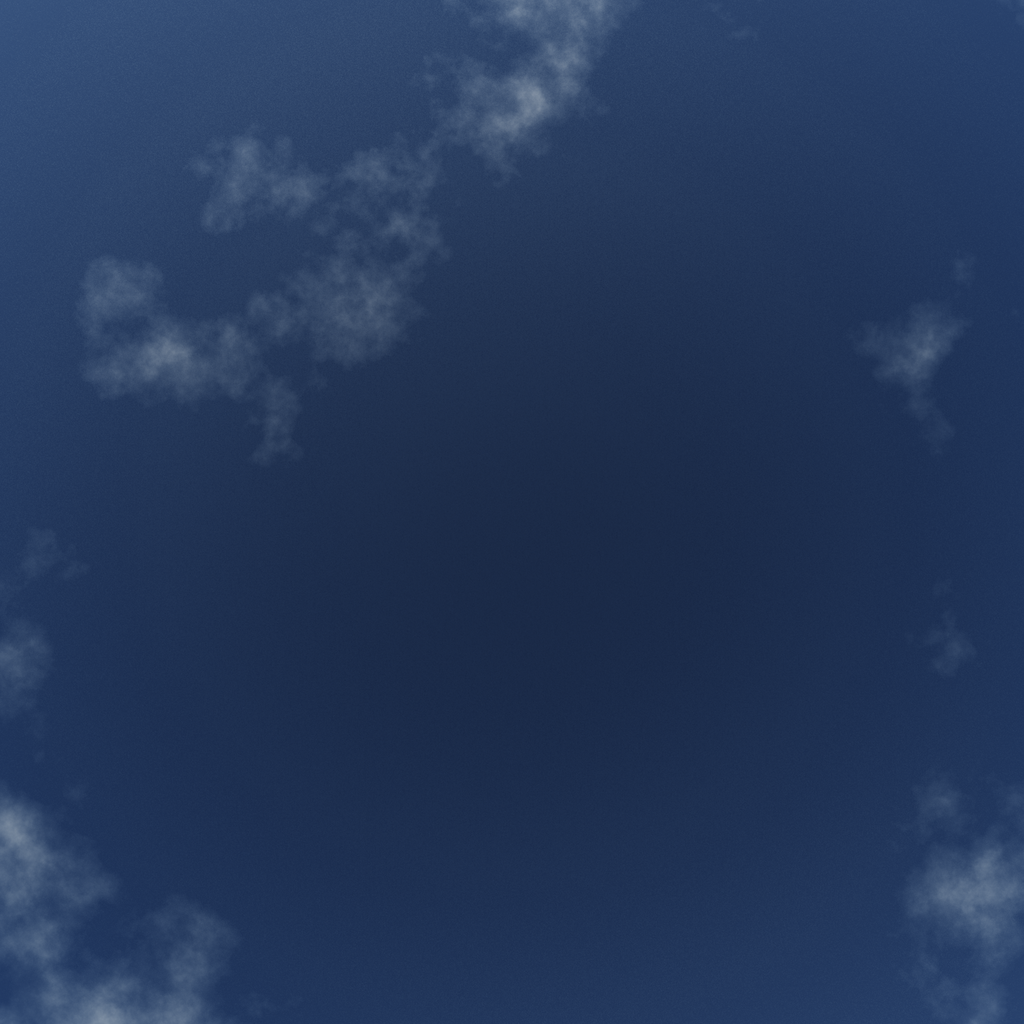
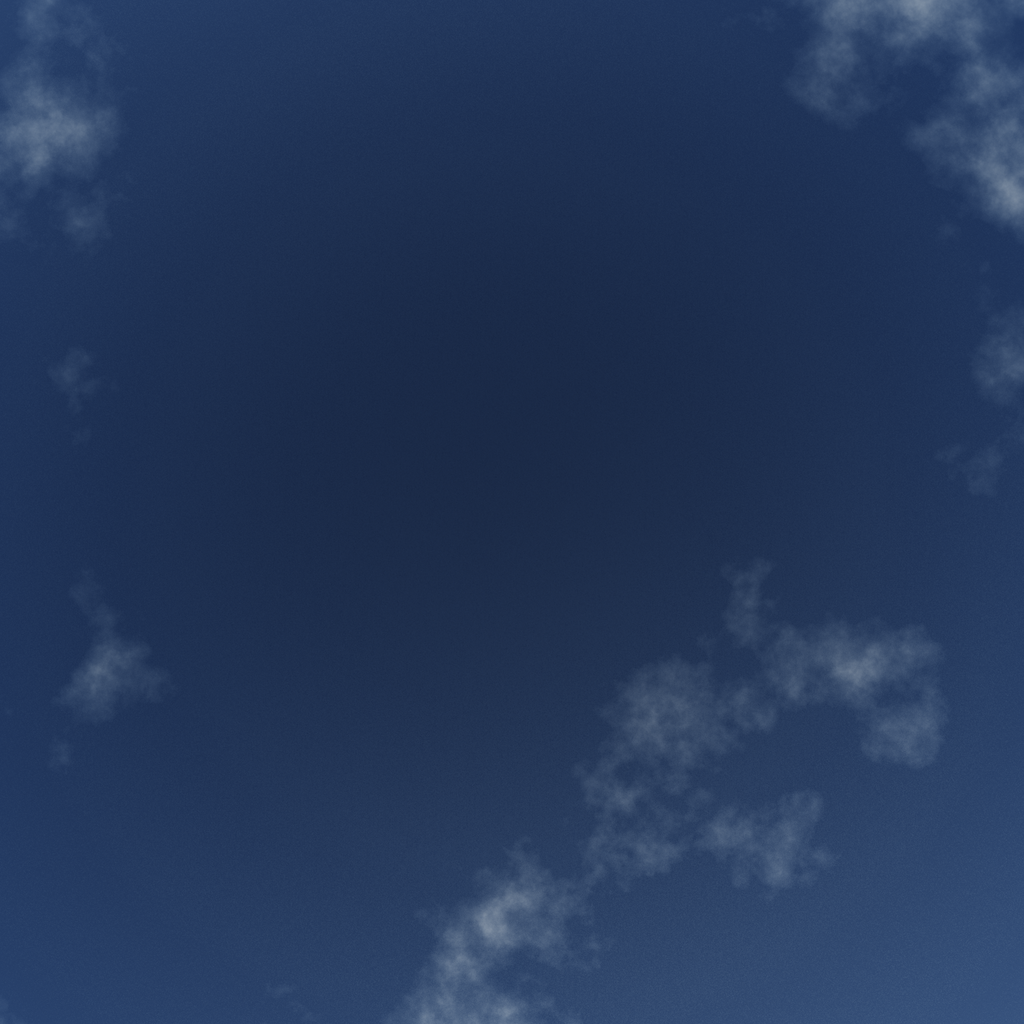
Camera tweaks

diff --git a/src/Camera.cpp b/src/Camera.cpp
@@ -11,6 +11,8 @@ Camera::Camera(glm::vec3 position, glm::vec3 direction, glm::vec3 up, Airplane& 
                     m_position(position),
                     m_direction(direction),
                     m_up(up),
+                    m_timer(0),
+                    m_stationary(true),
                     m_viewChanged(true),
                     m_view(glm::lookAt(position, direction + position, up)),
                     m_airplane(airplane)
@@ -22,8 +24,8 @@ glm::mat4 Camera::getView()
     if (m_viewChanged)
     {
         m_view = glm::lookAt(m_position -
-            glm::normalize(glm::vec3{m_direction.x, m_direction.y, 0.f}) * 0.2f
-                         + glm::vec3{0.f, 0.f, 1.f} * 0.06f,  // eye
+            glm::normalize(glm::vec3{m_direction.x, m_direction.y, m_direction.z}) * 0.2f
+                         + glm::vec3{0.f, 0.f, 1.f - m_direction.z} * 0.06f,  // eye
             m_position,  // center
             m_up);
         m_viewChanged = false;
@@ -54,9 +56,60 @@ void Camera::rotate(float x, float y)
 void Camera::updateView(float dt)
 {
     m_position    = m_airplane.getPosition();
+//     auto delta_direction = m_airplane.getForwardDirection() - m_direction;
+//     float z = delta_direction.z;
+//     delta_direction.z = 0;
+// //     auto len = glm::length(delta_direction);
+// //     if (len != 0.f)
+// //     {
+// //         delta_direction = glm::normalize(delta_direction)
+// //                           * std::min<float>(len, 0.4f * dt);
+// //         m_direction    += delta_direction;
+// //     }
+//     m_direction += delta_direction;
+//
+//     float z_delta = sign(z) * 0.2f * dt;
+//     if (m_timer > 0.f)
+//         m_timer -= dt;
+//     else if (not m_stationary)
+//     {
+//         if (std::abs(z) < z_delta)
+//         {
+//             m_direction += z;
+//             m_stationary = true;
+//         }
+//         else
+//             m_direction += z_delta;
+//     }
+//
+//     if (std::abs(z - z_delta) > 1e-2 && m_stationary)
+//     {
+//         m_timer = 0.4f;
+//         m_stationary = false;
+//     }
     auto delta_direction = m_airplane.getForwardDirection() - m_direction;
-    m_direction += delta_direction;
-    m_planeUp     = m_airplane.getUpDirection();
+    auto len = glm::length(delta_direction);
+
+    float len_delta = 0.2f * dt;
+    if (m_timer > 0.f)
+        m_timer -= dt;
+    else if (not m_stationary)
+    {
+        if (len < len_delta)
+        {
+            m_direction += delta_direction;
+        }
+        else
+            m_direction += glm::normalize(delta_direction) * len_delta;
+
+        if (len < 1e-4f)
+            m_stationary = true;
+    }
+    else if (len >= 1e-4f && m_stationary)
+    {
+        m_timer = 0.5f;
+        m_stationary = false;
+    }
     m_viewChanged = true;
 }
 

diff --git a/src/ShadowMap.cpp b/src/ShadowMap.cpp
@@ -9,7 +9,7 @@ namespace fly
 
 ShadowMap::ShadowMap(Airplane& plane) :
     m_airplane(plane),
-    m_projection(glm::ortho(-0.5f, 0.5f, -0.5f, 0.5f, 0.1f, 50.f))
+    m_projection(glm::ortho(-0.6f, 0.6f, -0.6f, 0.6f, 0.1f, 100.f))
 {
     if (m_shaderProgram.loadShaderFile("shaders/shadow.vert", Shader::Vertex))
     {
@@ -52,9 +52,9 @@ ShadowMap::~ShadowMap()
 
 const glm::mat4 ShadowMap::update()
 {
-    auto&& displacement = m_airplane.getPosition();
-    glm::mat4 light_view = glm::lookAt(glm::vec3{-0.6f * 4 + displacement.x, 0.3f * 4 + displacement.y, 0.9f * 4},
-                                       glm::vec3{0.f + displacement.x, 0.f + displacement.y, 0.f},
+    auto&& displacement = glm::vec3{m_airplane.getPosition().x, m_airplane.getPosition().y, 0.f};
+    glm::mat4 light_view = glm::lookAt(displacement + 2.5f * glm::normalize(glm::vec3{-6.f, 3.f, 9.f}),
+                                       displacement,
                                        glm::vec3{0.0f, 0.0f, 1.0f});
     auto light_space = m_projection * light_view;
     m_shaderProgram.use();

diff --git a/src/Airplane.cpp b/src/Airplane.cpp
@@ -48,7 +48,7 @@ void Airplane::update(float dt)
 
     float dAngleY = 0.f;
     if (m_elevator)
-        dAngleY     = (M_PI / 5.f * (1.f - sq(sq(m_left.z)))) * m_elevator * dt;
+        dAngleY     = (M_PI / 4.f * (1.f - sq(sq(m_left.z)))) * m_elevator * dt;
     else
         dAngleY     = sign(m_up.z) * sign(m_forward.z) * std::sqrt(std::abs(m_forward.z)) * M_PI / 4.f * dt;
     if (dAngleY != 0.f)
@@ -60,8 +60,8 @@ void Airplane::update(float dt)
 
     auto thrust  =  m_forward * 15.0f * m_speed / 1.0f;
     auto drag    = -glm::normalize(m_velocity) * (15.0f / sq(1.0f)) * glm::dot(m_velocity, m_velocity);
-    glm::vec3 gravity =  glm::vec3(0, 0, -1) * 8.f;
-    glm::vec3 lift    =  {0.f, 0.f, (m_up * (8.f / sq(1.0f)) * sq(glm::dot(m_forward, m_velocity))).z};
+    glm::vec3 gravity =  glm::vec3(0, 0, -1) * 6.f;
+    glm::vec3 lift    =  {0.f, 0.f, (m_up * (6.f / sq(1.0f)) * sq(glm::dot(m_forward, m_velocity))).z};
 
     float sine = std::sqrt(1 - sq(glm::dot(m_up, glm::vec3{0.f, 0.f, 1.f})));
     if (sine >= 0.1)

diff --git a/include/Camera.h b/include/Camera.h
@@ -22,9 +22,10 @@ private:
     glm::vec3 m_direction;
     glm::vec3 m_up;
     glm::vec3 m_planeUp;
+    float m_timer;
+    bool  m_stationary;
 
     bool      m_viewChanged;
-
     glm::mat4 m_view;
 
     Airplane& m_airplane;

diff --git a/src/main.cpp b/src/main.cpp
@@ -158,6 +158,7 @@ int main(int argc, char** argv)
     {
         LOG(Error) << "Incapable OpenGL context" << std::endl;
     }
+
     if (opts.fullscreen)
         window.setMouseCursorVisible(false);
 
